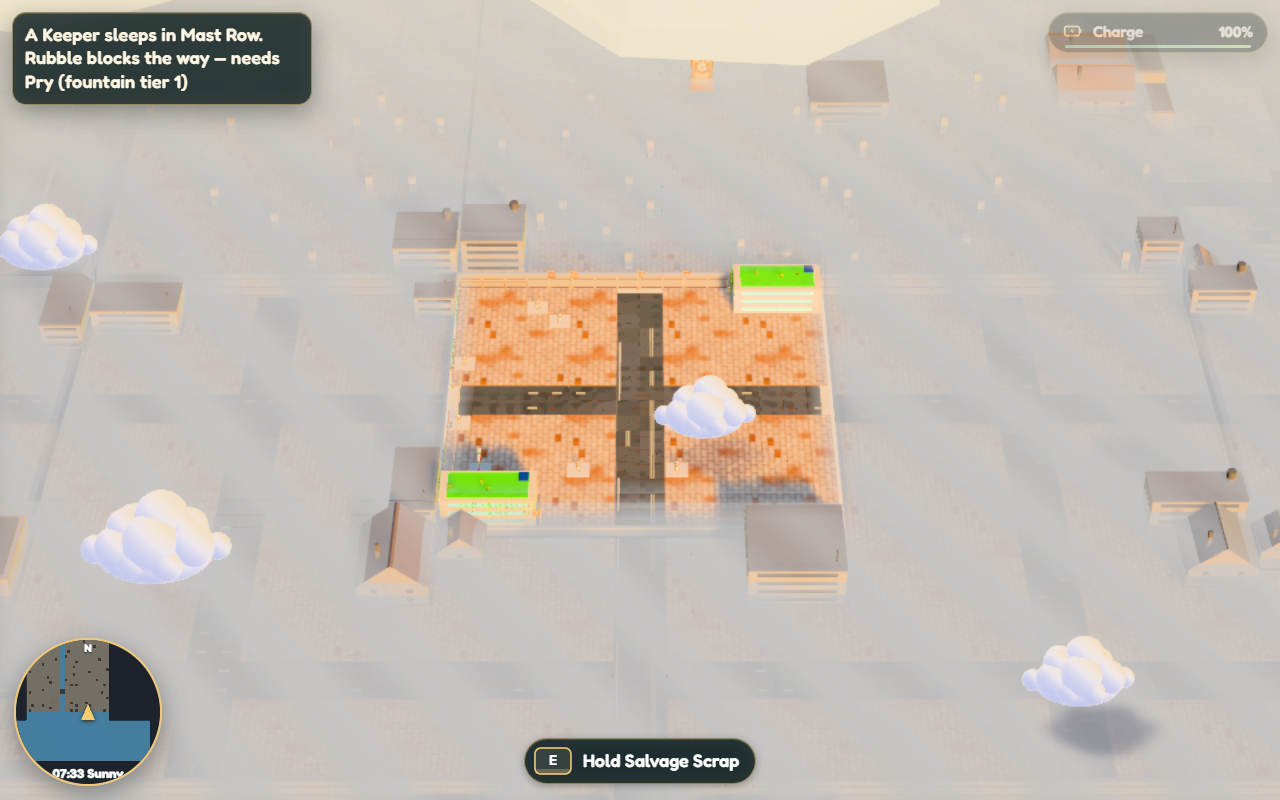
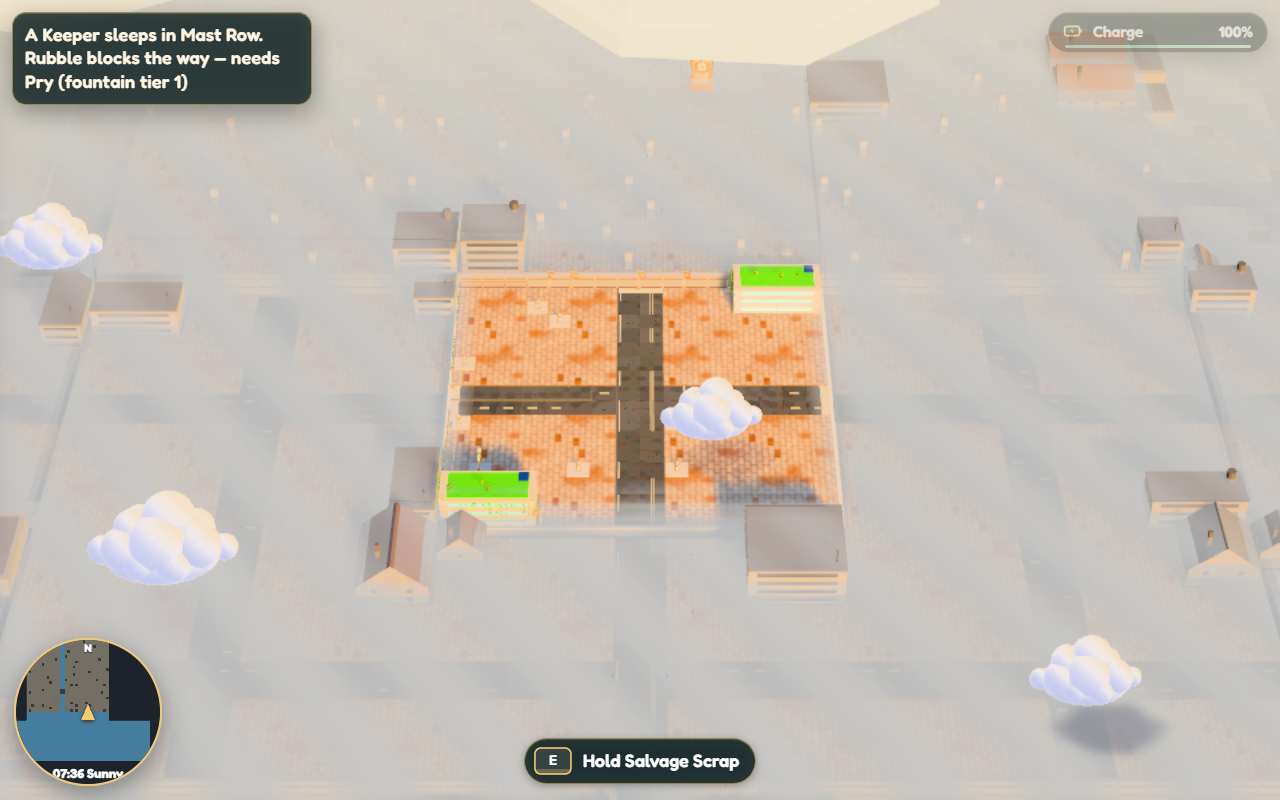
E23.8.3.2 review: model counts without the pump, MainlandSystem uses sim.power, visible rust stains, a set-piece table per mainland chunk
- docs/art/old-city-models.md and oldcity-models.test: 59 models, the pump's share out of the budget.
- MainlandSystem.wire registers the Grid Battery on sim.power directly (no cast, no optional hook, no wired flag).
- Rust stains are darker and drawn over the painted pavers (they were under them, so they never showed).
- OldCityLayout caches each mainland chunk's set pieces in a 256-cell table: generation asks every cell and its
  neighbours, and the pile and ruin lookups were string-keyed per call.

diff --git a/src/rendering/ChunkRenderer.ts b/src/rendering/ChunkRenderer.ts
@@ -1031,8 +1031,8 @@ export class ChunkRenderer {
     if (kind === 'stain') {
       if (t.ground === 'restored') return;
       const j = (s: number) => (dhash(t.x, t.z, s) - 0.5) * 0.4;
-      b.add('sphere', PALETTE.props.rustStain, [x + j(241), y + 0.006, z + j(242)], [0.7 + j(243), 0.012, 0.55 + j(244)]);
-      b.add('sphere', PALETTE.ground.rustStreak, [x + j(245), y + 0.009, z + j(246)], [0.3, 0.012, 0.22]);
+      b.add('sphere', PALETTE.props.rustStain, [x + j(241), y + 0.004, z + j(242)], [0.7 + j(243), 0.012, 0.55 + j(244)]);
+      b.add('sphere', PALETTE.ground.rustStreak, [x + j(245), y + 0.008, z + j(246)], [0.3, 0.012, 0.22]);
       return;
     }
     // stained ground under every piece
@@ -1244,6 +1244,11 @@ export class ChunkRenderer {
         const k = Math.round(255 * (1 - 0.3 * b.grey));
         if (this.raisedPaving(t)) this.pavedTop(b, t, th, gtex, k);
         else addGroundQuad(gtex[GROUND_TEXTURES.indexOf(gt)], gt, t.x, t.z, th + 0.086, [k, k, k]);
+      }
+      // E23.8.3.2: a rust stain in the industrial ruins, laid over the ground (and its pavers, when they are raised)
+      if (!v.far && !t.blocked && t.prop?.startsWith('ruin:stain')) {
+        this.sink = b;
+        this.ruin(b, t, t.prop, t.x + 0.5, th + 0.086 + (gt && this.raisedPaving(t) ? PAVING_RAISE.lift : 0), t.z + 0.5);
       }
       yield; // a tile done: `update` decides whether this frame has time for the next
     }
@@ -1662,19 +1667,6 @@ export class ChunkRenderer {
     this.sink = b;
     const x = t.x + 0.5;
     const z = t.z + 0.5;
-    // E23.8.3.2: a rust stain is ground: the cell as usual, the stain laid on it
-    if (!t.blocked && t.prop?.startsWith('ruin:stain')) {
-      const prop = t.prop;
-      t.prop = undefined;
-      try {
-        this.tile(b, t, h);
-      } finally {
-        t.prop = prop;
-      }
-      this.sink = b;
-      this.ruin(b, t, prop, x, h + 0.08, z);
-      return;
-    }
     // E23.7.4: a salvage pile blown back onto ground bloombot restored sits on that ground (never on a dead slab)
     if (t.blocked && t.ground === 'restored' && t.prop?.startsWith('pile:')) {
       t.blocked = false;

diff --git a/src/core/OldCityLayout.ts b/src/core/OldCityLayout.ts
@@ -1,4 +1,4 @@
-import { isMainlandCell, mainlandPileAt, mainlandPileById, mainlandRuinAt, mainlandShore, onCauseway, type RuinDef } from './Mainland';
+import { chunkPiles, chunkRuins, isMainlandCell, mainlandPileById, mainlandShore, onCauseway, type RuinDef } from './Mainland';
 import { COAST, KEEPERS, LANDING, OLD_CITY, PARK_SET, REGIONS, type GateDef, type KeeperDef, type PileDef, type RegionDef, type RegionId } from '../data/oldcity';
 
 /**
@@ -59,12 +59,24 @@ export function pileById(id: string): PileDef | undefined {
 }
 
 /** E23.8.3.1: the mainland's set pieces are its salvage fields, generated per chunk (core/Mainland), and the ruins round its steel. */
+const mlPieces = new Map<number, (SetPiece | undefined)[]>();
+
+/** A mainland cell's set piece, from its chunk's table (built once: generation asks every cell and its neighbours). */
 function mainlandPiece(x: number, z: number): SetPiece | undefined {
-  const pile = mainlandPileAt(x, z);
-  if (pile) return { kind: 'pile', pile };
-  // E23.8.3.2: and the industrial ruins round a steel field
-  const ruin = mainlandRuinAt(x, z);
-  return ruin ? { kind: 'ruin', ruin } : undefined;
+  if (!isMainlandCell(x)) return undefined;
+  const cx = Math.floor(x / 16);
+  const cz = Math.floor(z / 16);
+  const k = cx * 65536 + cz;
+  let a = mlPieces.get(k);
+  if (!a) {
+    if (mlPieces.size > 4096) mlPieces.clear();
+    a = new Array<SetPiece | undefined>(256);
+    for (const pile of chunkPiles(cx, cz).values()) a[(pile.z - cz * 16) * 16 + pile.x - cx * 16] = { kind: 'pile', pile };
+    // E23.8.3.2: and the industrial ruins round a steel field
+    for (const ruin of chunkRuins(cx, cz).values()) a[(ruin.z - cz * 16) * 16 + ruin.x - cx * 16] ??= { kind: 'ruin', ruin };
+    mlPieces.set(k, a);
+  }
+  return a[(z - cz * 16) * 16 + x - cx * 16];
 }
 
 /** Every pile in the Old City (park first, then the regions in map order). */

diff --git a/src/gameplay/MainlandSystem.ts b/src/gameplay/MainlandSystem.ts
@@ -4,14 +4,6 @@ import { MAINLAND, MAINLAND_MACHINES } from '../data/mainland';
 import type { Sim } from './Sim';
 
 /**
- * E23.8.3.2: the grid (E23.3, `sim.power`, PR #480) as far as the mainland's machines need it. Optional: a machine it
- * doesn't know simply stands there (cozy). The Long-range Pump joins the water network in its own PR, after E23.4 (#514).
- */
-export interface PowerHook {
-  register(type: string, spec: { battery?: { capacity: number; rate: number } }): void;
-}
-
-/**
  * E23.8.3.1 (#451): the mainland. The Long Causeway's broken middle rises with the Great Bloom (fountain tier 5) and
  * the district it lands in comes out of the cloud; after that the mainland opens by restoring, one district revealing
  * the next, for ever. No gates, no prices and nothing idle: the same tools and rules as the island.
@@ -24,20 +16,13 @@ export class MainlandSystem {
     });
   }
 
-  /** The grid hooks the mainland's machines joined (for tests and the PR's checklist). */
-  wired = { power: false };
-
   /**
-   * E23.8.3.2: joins the mainland's machines to the grid, once the Sim has built it (called at the end of the Sim's
-   * constructor). The Grid Battery is storage.
+   * E23.8.3.2: joins the mainland's machines to the grid (E23.3, `sim.power`), once the Sim has built it (called at
+   * the end of the Sim's constructor). The Grid Battery is storage.
    */
   wire(): void {
-    const sim = this.sim as unknown as { power?: PowerHook };
     const B = MAINLAND_MACHINES.gridBattery;
-    if (sim.power?.register) {
-      sim.power.register('gridBattery', { battery: { capacity: B.capacity, rate: B.rate } });
-      this.wired.power = true;
-    }
+    this.sim.power.register('gridBattery', { battery: { capacity: B.capacity, rate: B.rate } });
   }
 
   /** Has the Great Bloom raised the causeway? */

diff --git a/tests/mainland-steel.test.ts b/tests/mainland-steel.test.ts
@@ -10,7 +10,6 @@ import { MATERIALS } from '../src/data/salvage';
 import { MACHINE_RECIPES } from '../src/data/crafting';
 import { Sim } from '../src/gameplay/Sim';
 import { itemCells } from '../src/ui/BackpackModel';
-import type { PowerHook } from '../src/gameplay/MainlandSystem';
 
 const RECIPE = (t: string) => MACHINE_RECIPES.find((r) => r.builds === t);
 
@@ -188,21 +187,14 @@ describe('E23.8.3.2: mainland machines', () => {
     expect(sim.inventory.count('steel')).toBe(40 - RECIPE('gridBattery')!.cost.steel!);
   });
 
-  it('joins the grid as storage when the grid exists', () => {
+  it('joins the grid as storage', () => {
     const sim = new Sim(createInitialState(7));
-    const calls: [string, unknown][] = [];
-    const host = sim as unknown as { power?: PowerHook };
-    host.power = { register: (t, spec) => calls.push([t, spec]) };
-    sim.mainland.wire();
-    expect(sim.mainland.wired).toEqual({ power: true });
-    expect(calls).toEqual([
-      ['gridBattery', { battery: { capacity: MAINLAND_MACHINES.gridBattery.capacity, rate: MAINLAND_MACHINES.gridBattery.rate } }],
-    ]);
+    const bat = { id: 'b', type: 'gridBattery', roofId: GROUND, x: 0, z: 0, size: 2 } as unknown as MachineData;
+    expect(sim.power.roleOf(bat)).toEqual({ battery: { capacity: MAINLAND_MACHINES.gridBattery.capacity, rate: MAINLAND_MACHINES.gridBattery.rate } });
   });
 
   it('on the real grid: the Grid Battery stores the day and carries a drone hub through the night', () => {
     const sim = new Sim(createInitialState(7));
-    expect(sim.mainland.wired.power).toBe(true);
     let sky = { sun: 1, solar: 1, cloudy: false, wind: 0, dark: 0 };
     sim.power.skyOverride = () => sky;
     const put = (type: string, x: number, z: number, size = 2): MachineData => {

diff --git a/tests/oldcity-models.test.ts b/tests/oldcity-models.test.ts
@@ -10,7 +10,7 @@ describe('E21: the Old City model list', () => {
     for (const n of used) expect(MODEL_NAMES[n], n).toBeDefined();
     for (const n of piles) expect(MODEL_NAMES[n] !== undefined || have.has(n), n).toBe(true);
     for (const [n, m] of Object.entries(MODEL_NAMES)) expect(m.standIn === 'procedural' || have.has(m.standIn), `${n} -> ${m.standIn}`).toBe(true);
-    // the 60 files of docs/art/old-city-models.md (57 after E23.7.4 dropped the Reclaimer, plus E23.8.3.2's steel, grid battery and long-range pump)
+    // the 59 files of docs/art/old-city-models.md (57 after E23.7.4 dropped the Reclaimer, plus E23.8.3.2's steel and grid battery)
     expect(Object.keys(MODEL_NAMES)).toHaveLength(59);
   });
 });

diff --git a/src/rendering/Palette.ts b/src/rendering/Palette.ts
@@ -330,7 +330,7 @@ const props = {
   lampToppled: '#8d8a78',
   /** E23.8.3.2: the industrial ruins: deep-rusted girders and the rust run-off staining the ground round them */
   girderRust: '#6b4330',
-  rustStain: '#8c5634',
+  rustStain: '#5e3a28',
   stallDead: '#9a8a70',
   stallAlive: '#c9a77a',
   awning: ['#b5655a', '#5a7fb5'],

diff --git a/docs/art/old-city-models.md b/docs/art/old-city-models.md
@@ -38,7 +38,7 @@ house-shed · house-cottage · house-two-storey · house-home (budget 8k) · bed
 ## Island (5)
 boat (image route, 5k) · jetty · causeway-span · causeway-broken · sea-cliff (landmark budget, close-range; the skyline cliff stays for distance)
 
-## Machines and storage (3), text route, machine budget 5k
+## Machines and storage (2), text route, machine budget 5k
 storage-chest · grid-battery (E23.8.3.2, mainland only: a 2 × 2 grid-scale battery bank). (E23.7.4 dropped the Reclaimer and its model.)
 
 ## Salvage piles (7), text route, obstacle budget 1.2k
@@ -65,5 +65,5 @@ VFX, journal paper.
 |---|---|---|
 | Keepers | 10 | 320 |
 | Landmarks, towers, house stages, boat | 12 | 216 |
-| Text-route props | 38 | 570 |
-| **Total** | **60** | **1,106** |
+| Text-route props | 37 | 555 |
+| **Total** | **59** | **1,091** |
